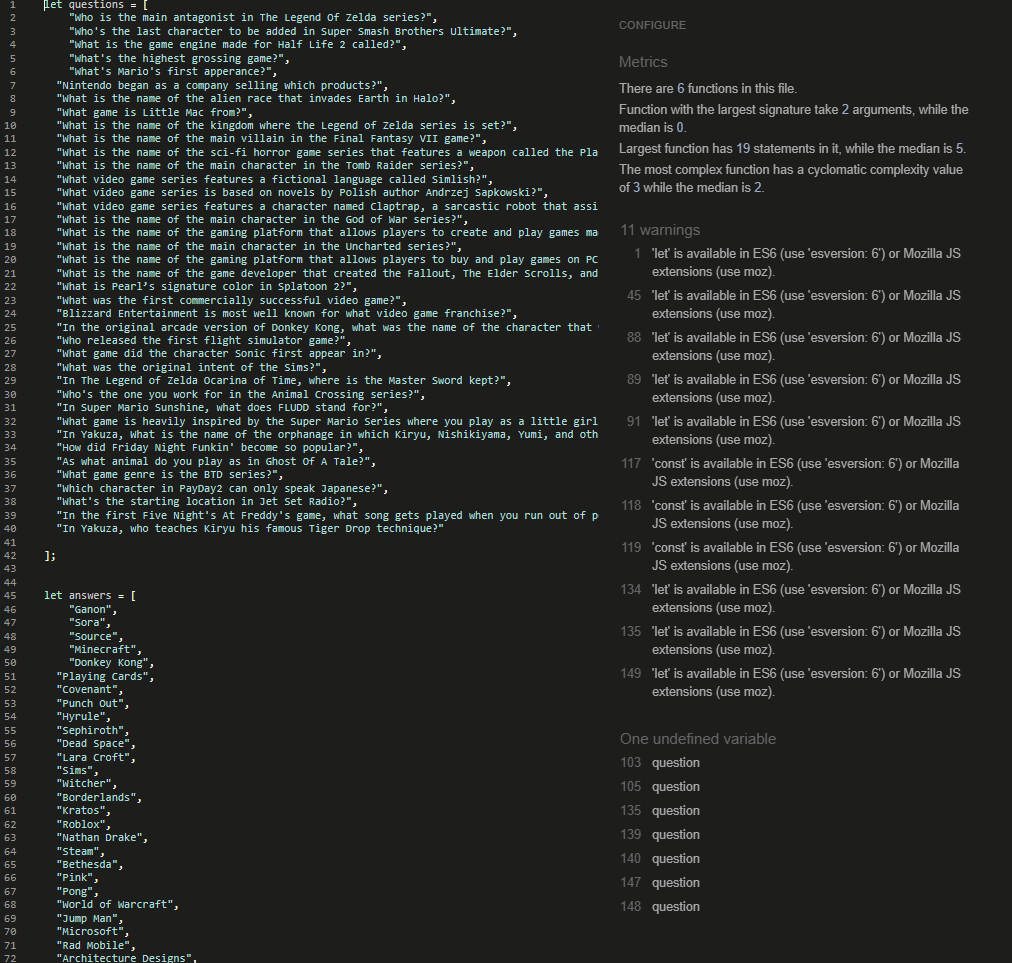
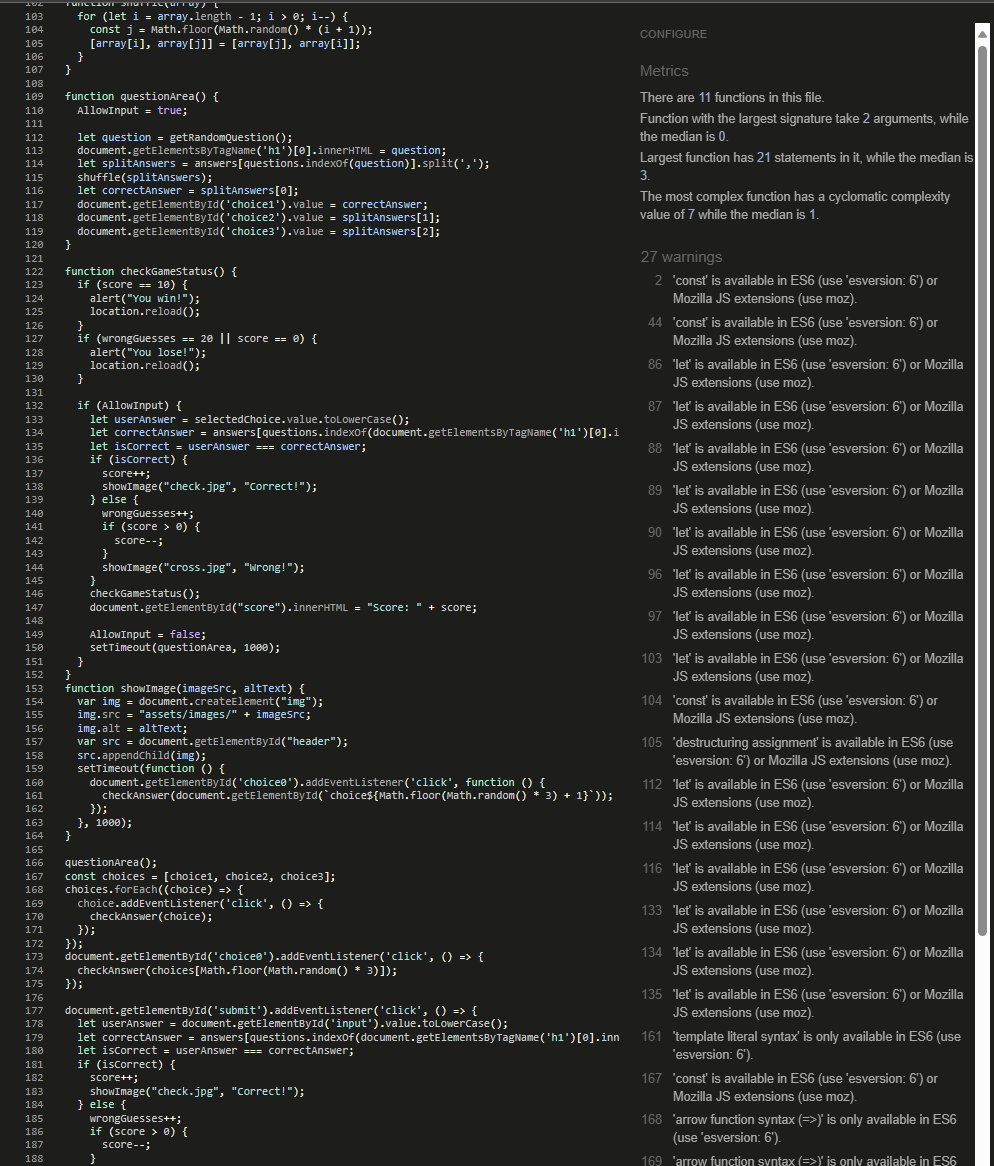
update js check info in readme

Changed region(s): [[0.0, 0.0, 0.998, 1.0], [0.2495, 0.9346, 0.2807, 0.9657]]

diff --git a/README.md b/README.md
@@ -75,14 +75,12 @@ An extra page that will help you understand the game better. It will tell you ho
 
  ![Jshint validation without any errors](assets/images/scriptcheck.png)
 
-- The following metrics were returned:
-  - There are 6 functions in this file.
+The following metrics were returned:
 
-  - Function with the largest signature take 2 arguments, while the median is 0.
-
-    - Largest function has 19 statements in it, while the median is 5.
-
-    - The most complex function has a cyclomatic complexity value of 3 while the median is 2.
+- There are 11 functions in this file.
+- Function with the largest signature take 2 arguments, while the median is 0.
+- Largest function has 21 statements in it, while the median is 3.
+- The most complex function has a cyclomatic complexity value of 7 while the median is 1.
 
 ### Unfixed Bugs
 
